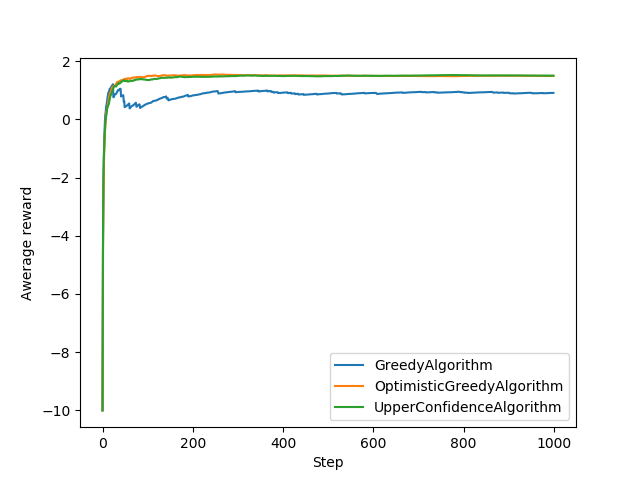
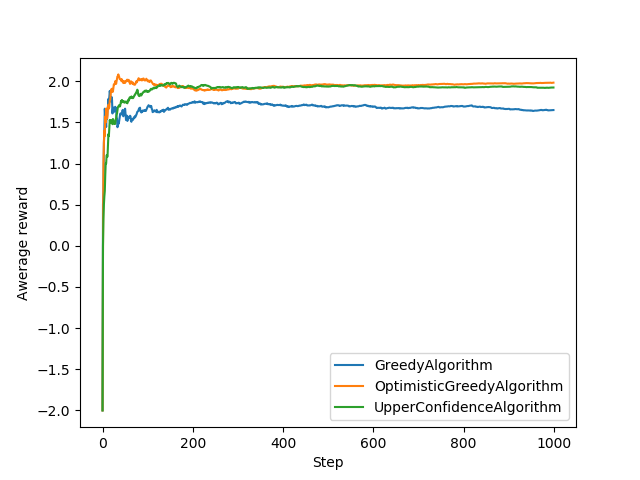
plots

diff --git a/Exercise1/Algorithm.py b/Exercise1/Algorithm.py
@@ -80,21 +80,21 @@ class UpperConfidenceAlgorithm(GreedyAlgorithm):
 if __name__ == '__main__':
     bandits = []
 
+    bandits.append(ConstantBandit(-1))
+    bandits.append(RangeBandit(-10, 10))
+    bandits.append(RangeBandit(-3, 6))
+    bandits.append(ConstantBandit(-1))
+    bandits.append(ConstantBandit(0))
+    bandits.append(RangeBandit(-1,1))
+    bandits.append(RangeBandit(-20,20))
+    bandits.append(RangeBandit(-2,3))
     bandits.append(ConstantBandit(2))
-    bandits.append(RangeBandit(1, 3))
-    # bandits.append(ConstantBandit(3))
-    # bandits.append(RangeBandit(-10, 10))
-    # bandits.append(RangeBandit(-3, 6))
-    # bandits.append(ConstantBandit(-1))
-    # bandits.append(ConstantBandit(0))
-    # bandits.append(RangeBandit(-1,1))
-    # bandits.append(RangeBandit(-20,20))
-    # bandits.append(RangeBandit(-2,3))
+    bandits.append(RangeBandit(3, 4))
 
     totalsteps = 1000
 
-    algo1 = GreedyAlgorithm(0.1, totalsteps, len(bandits))
-    algo2 = OptimisticGreedyAlgorithm(0, totalsteps, len(bandits), 20)
+    algo1 = GreedyAlgorithm(0.05, totalsteps, len(bandits))
+    algo2 = OptimisticGreedyAlgorithm(0, totalsteps, len(bandits), 4)
     algo3 = UpperConfidenceAlgorithm(0, totalsteps, len(bandits), 0.2)
 
     best1 = algo1.evaluate(bandits)
@@ -112,4 +112,4 @@ if __name__ == '__main__':
 
     plt.legend()
     # plt.show()
-    plt.savefig('plot2.png')
+    plt.savefig('plot2-better.png')
